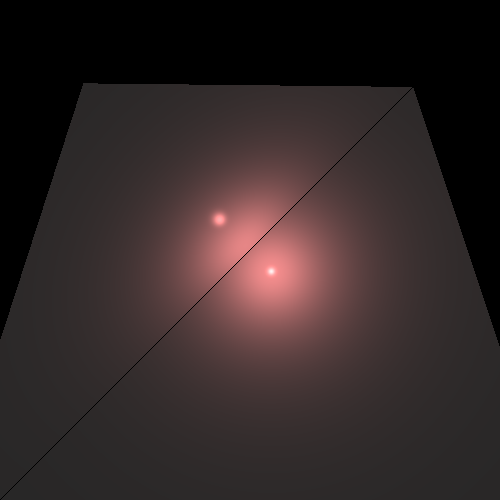
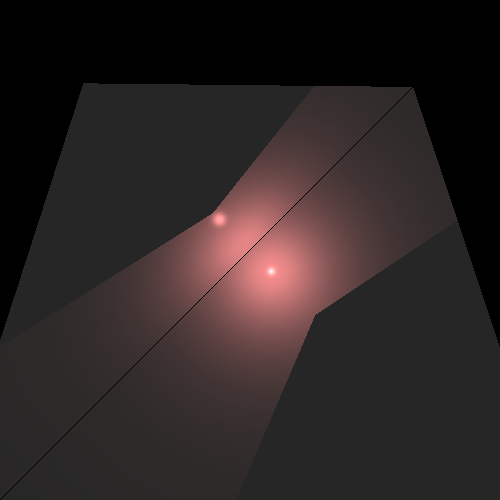
V-1.7.0 ______ shaded update test light passed LightsTests update javaDoc updated

Changed region(s): [[0.54, 0.51, 0.81, 0.81], [0.24, 0.24, 0.57, 0.54]]

diff --git a/src/renderer/Render.java b/src/renderer/Render.java
@@ -12,6 +12,10 @@ import java.util.List;
 import static primitives.Util.alignZero;
 
 public class Render {
+    /**
+     *
+     */
+    private static final double DELTA = 0.0001;
     ImageWriter _imageWriter;
     Scene _scene;
 
@@ -24,6 +28,15 @@ public class Render {
     public Render(ImageWriter imageWriter, Scene scene) {
         this._imageWriter = imageWriter;
         this._scene = scene;
+    }
+
+    private boolean unshaded(Vector l, Vector n, GeoPoint gp) {
+        Vector lightDirection = l.scale(-1);
+        Vector delta = n.scale(n.dotProduct(lightDirection) > 0 ? DELTA : -DELTA);
+        Point3D point = gp.point.add(delta);
+        Ray lightRay = new Ray(point, lightDirection);
+        List<GeoPoint> intersections = _scene.get_geometries().findIntersections(lightRay);
+        return intersections == null;
     }
 
     /**
@@ -73,11 +86,12 @@ public class Render {
                 for (LightSource lightS : _scene.get_lights()) {
                     Vector l = lightS.getL(p.point);
                     double nl = alignZero(n.dotProduct(l)), nv = alignZero(n.dotProduct(v));
-                    if (sign(nl) == sign(nv)) {
-                        Color lightIntensity = lightS.getIntensity(p.getPoint());
-                        color = color.add(calcDiffusive(kd, nl, lightIntensity), calcSpecular(ks, l, n, nl, v, nShininess, lightIntensity));
+                    if (sign(nl) == sign(nv))
+                        if (unshaded(l, n, p)) {
+                            Color lightIntensity = lightS.getIntensity(p.getPoint());
+                            color = color.add(calcDiffusive(kd, nl, lightIntensity), calcSpecular(ks, l, n, nl, v, nShininess, lightIntensity));
 
-                    }
+                        }
                 }
             }
         }
